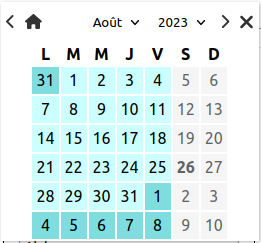
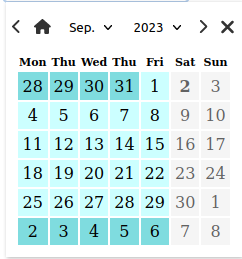
fix: Readme images & desc update

diff --git a/src/index.tsx b/src/index.tsx
@@ -1,0 +1,16 @@
+import React from 'react';
+import ReactDOM from 'react-dom/client';
+import './styles/datepicker.css';
+import DateTimePicker from './components/DateTimePicker';
+
+const root = ReactDOM.createRoot(
+  document.getElementById('root') as HTMLElement
+);
+
+root.render(
+  <React.StrictMode>
+    <DateTimePicker
+      maxDate={new Date()}
+    />
+  </React.StrictMode>
+);

diff --git a/README.md b/README.md
@@ -1,5 +1,7 @@
 # React DateTimePicker
 
+React DateTimePicker, a React component to replace the datetime input
+
 ![def](./images/def.png)
 
 ## Features
@@ -9,6 +11,10 @@
 - Disable Days / Dates / Times
 - Disabled Times for specifics Dates
 - Set Min & Max avaiable Date / Time
+
+## Prerequisites
+
+[Create React App](https://github.com/facebook/create-react-app)
 
 ## Installation
 
@@ -107,7 +113,7 @@ string[] | [] | no
 ```jsx
 <DateTimePicker
     reservedDates={[
-        '25/08/2023', '28/09/2023'
+        '25/09/2023', '28/09/2023'
     ]}
 />
 ```
